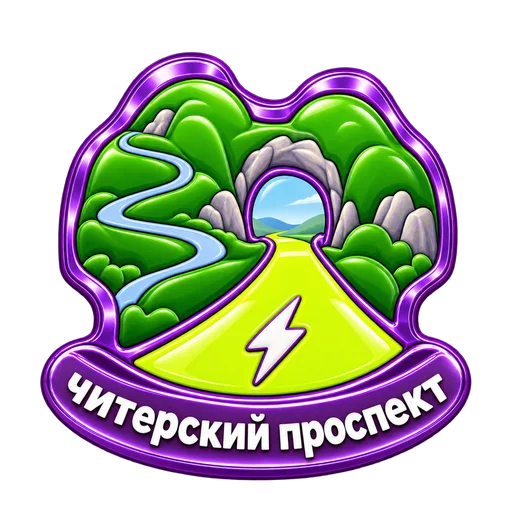
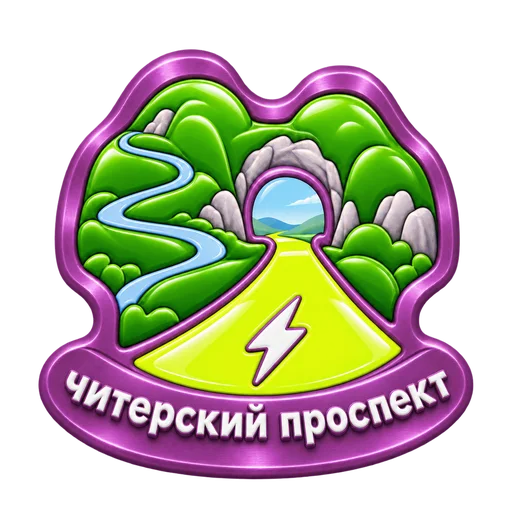
Badges: updated purple metal designs (idea-to-reality, cheater-prospect, 50 hikes, four seasons, spider cave)

diff --git a/js/achievements-medals.js b/js/achievements-medals.js
@@ -64,7 +64,7 @@ export const medalByUrl = url => MEDAL_LIBRARY.find(m => m.imageUrl === url) || 
 // Лёгкие копии значков (WebP): thumbs – 256 px для сеток и полок, md – 512 px для слайдера.
 // Делаются из PNG скриптом scripts/medal-thumbs.py; если копии нет – картинка сама откатывается на исходный PNG.
 // MEDAL_REV – поднять, когда картинки значков перерисованы (иначе телефоны неделю держат старые из кэша)
-const MEDAL_REV = 3;
+const MEDAL_REV = 4;
 const variant = (url, dir) => typeof url === 'string' && url.startsWith('/assets/achievements/') && url.endsWith('.png')
     ? url.replace('/assets/achievements/', `/assets/achievements/${dir}/`).replace(/\.png$/, `.webp?v=${MEDAL_REV}`) : url;
 export const medalThumb = url => variant(url, 'thumbs');
